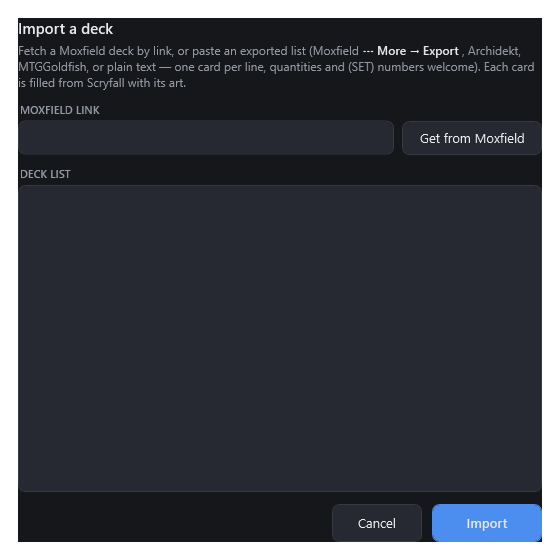
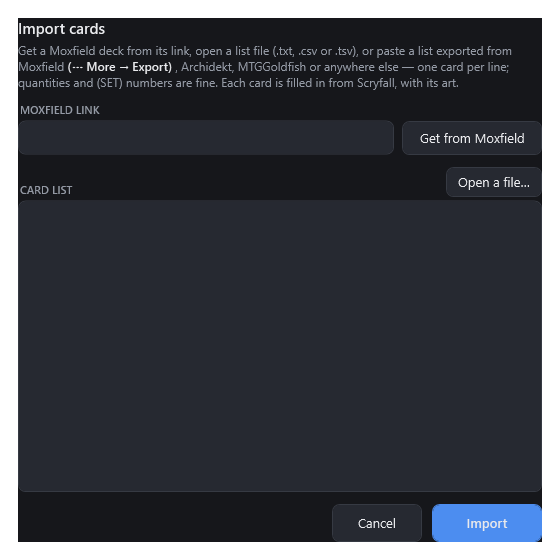
The redesign: one Card layout picker, a Front | Back switch, Set settings and a set card back (1.7.0)
- Card layout: one picker (Normal, Double-faced, Meld, Flip, Split, Adventure) replaces the separate
  double-faced, meld, flip, split and adventure controls. Switching keeps a back face or second half where it
  can and only asks when something would be lost.
- Front | Back above the preview. A one-sided card's back is the set's card back, chosen in Set settings
  (Cardinator's, one designed for the set, or your own picture) and used by double-sided print sheets.
- The left side is regrouped into CARDS, ADD MANY CARDS, WHOLE SET and EXPORT; New card offers a blank card
  or a token. The middle panel's export buttons get their own EXPORT THIS CARD heading.
- Set settings… replaces Set defaults and Bulk edit: new cards only, fill in blanks on the cards already
  here, or replace on every card (or just the selected ones), as one undo step.
- Import cards… can open a file directly. Fill in blanks from Scryfall keeps each card's own name.
- Themed-set scripts: add_tokens.py adds a deck's tokens as show cards; card_names.py writes the list of
  every show name and the real card it stands for, on every build.
- A seeded random-clicking test of the main window; it found and fixed a fresh window starting unsaved, a
  meld card turned double-faced still copying onto its old partner, and hidden boxes still changing.
- Help, guides and screenshots updated.

Claude-Session: https://claude.ai/code/session_01VhGah2Lqut8yXp3DQr5jjw

Changed region(s): [[0.0304, 0.0304, 0.9411, 0.1821], [0.0304, 0.3036, 0.1518, 0.3643], [0.8196, 0.3036, 0.9411, 0.3339]]

diff --git a/src/Cardinator/MainWindow.xaml b/src/Cardinator/MainWindow.xaml
@@ -234,6 +234,7 @@
                         </StackPanel>
                     </Border>
 
+                    <TextBlock Text="EXPORT THIS CARD" Style="{StaticResource SectionLabel}"/>
                     <Button Content="Export PNG…" Click="OnExport"/>
                     <UniformGrid Columns="2" Margin="0,8,0,0">
                         <Button Content="Copy image" Click="OnCopyImage" Margin="0,0,4,0"

diff --git a/docs/TEST_PLAN.md b/docs/TEST_PLAN.md
@@ -295,6 +295,18 @@ These drive the fix backlog.
   `art_list.py` takes web links and plain file names only, reads a BOM; `drawing_frame.py` no longer deletes frames
   first; `make_frames.py` and `contact_sheet.py` report what they couldn't do. `Review4Tests` (20), each fix
   mutation-checked.
+- ✅ **The redesign (1.7.0 — agreed minor bump)** — one **Card layout** picker (Normal, Double-faced, Meld, Flip,
+  Split, Adventure) replaces the scattered DFC / meld / flip / split / adventure controls (`ChangeLayout` keeps a back
+  face between double-faced and meld and a second half between flip and split, and asks only when content would be
+  lost); a **Front | Back** switch over the preview, the back of a one-sided card being the set's **card back**
+  (`SetProfile.CardBack`, `BackRenderer`, used by print sheets too); the left side regrouped into CARDS / ADD MANY
+  CARDS / WHOLE SET / EXPORT and the middle into CHECKS / EXPORT THIS CARD; **Set settings…** replaces Set defaults and
+  Bulk edit (new-cards-only, fill blanks, or replace on every or only the selected cards — one undo step); **Import
+  cards** opens a file too; **Fill in blanks** keeps the card's own name. Themed-set scripts: `add_tokens.py` (a deck's
+  tokens as show cards) and `card_names.py` (the show-name list, written on every build). `CardLayoutTests` (15),
+  `SetSettingsTests` (11), and `UiStateFuzzTests` — seeded random clicking (160 steps, `CARDINATOR_FUZZ_SEEDS` for
+  more) checking a fresh window is clean and every undo lands on a state seen before; it found the window starting
+  dirty, a meld card turned double-faced still copying onto its old partner, and hidden boxes still changing.
 - ✅ **Graphics review (1.6.34)** — `--qa <dir> full` audits every layout case and stress card on every frame from the
   drawing itself (`LayoutAudit`: text cut off, off the card, on text or a symbol, under the P/T box, outside its box,
   on a frame line). Fixed what it and a look at every sheet found: the picture frames' credit line within a pixel of

diff --git a/docs/USER_GUIDE.md b/docs/USER_GUIDE.md
@@ -322,6 +322,8 @@ The **WHOLE SET** group:
   already here* (leave a field blank to keep each card's own; tick boxes empty the set code, artist, copyright or set
   symbol instead). With cards **multi-selected** in the list, *Only the N selected cards* applies to just those. A
   new frame goes on each card's back face too, unless that back face has a frame of its own. Saved with the project.
+
+  ![Set settings](images/app-set-settings.png)
 - **Number cards** — assigns collector numbers in list order, zero-padded to the set's size: `1/9` … `9/9`
   for a set of 9, `01/12` … `12/12` for 12, `001/120` … for 120 — so a whole set is numbered in one click.
 - **Check all cards** — runs the CHECKS across the whole set and lists every card that needs attention
